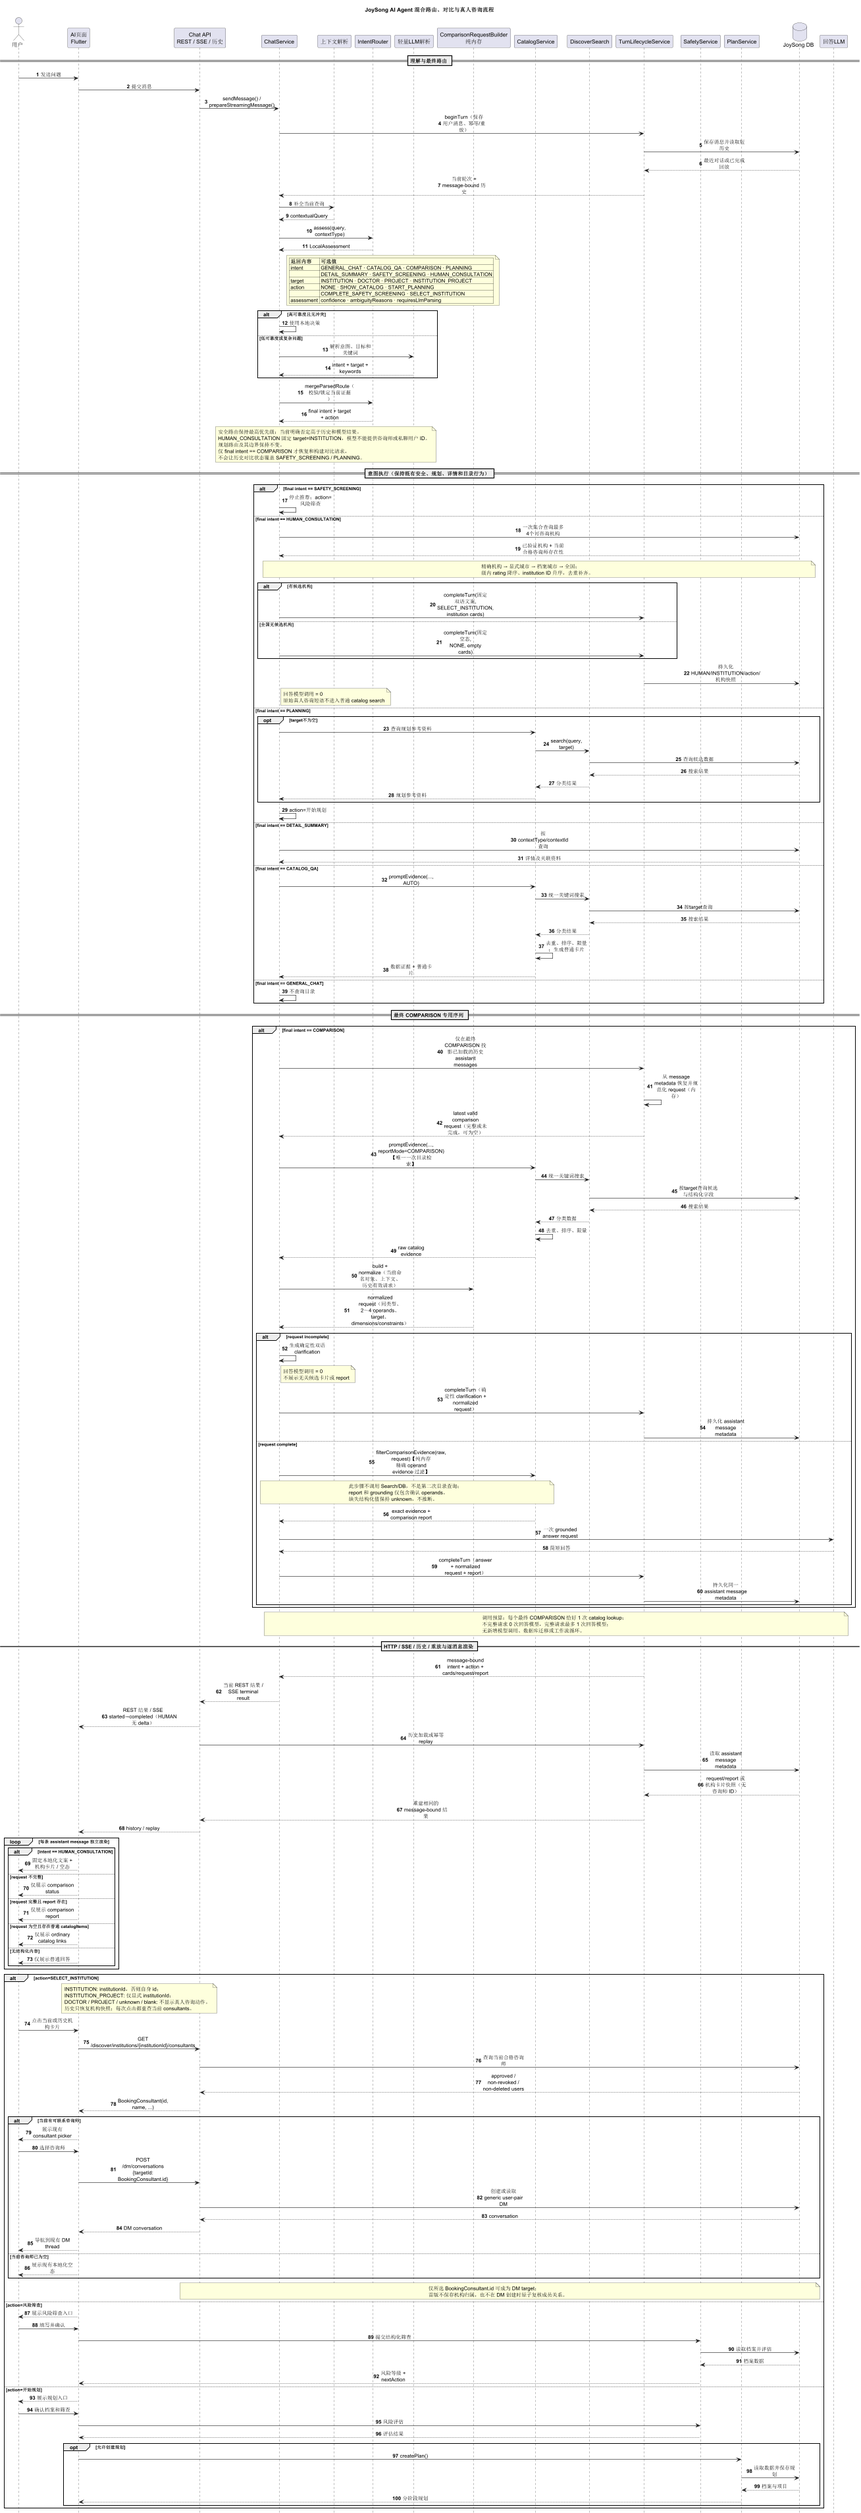
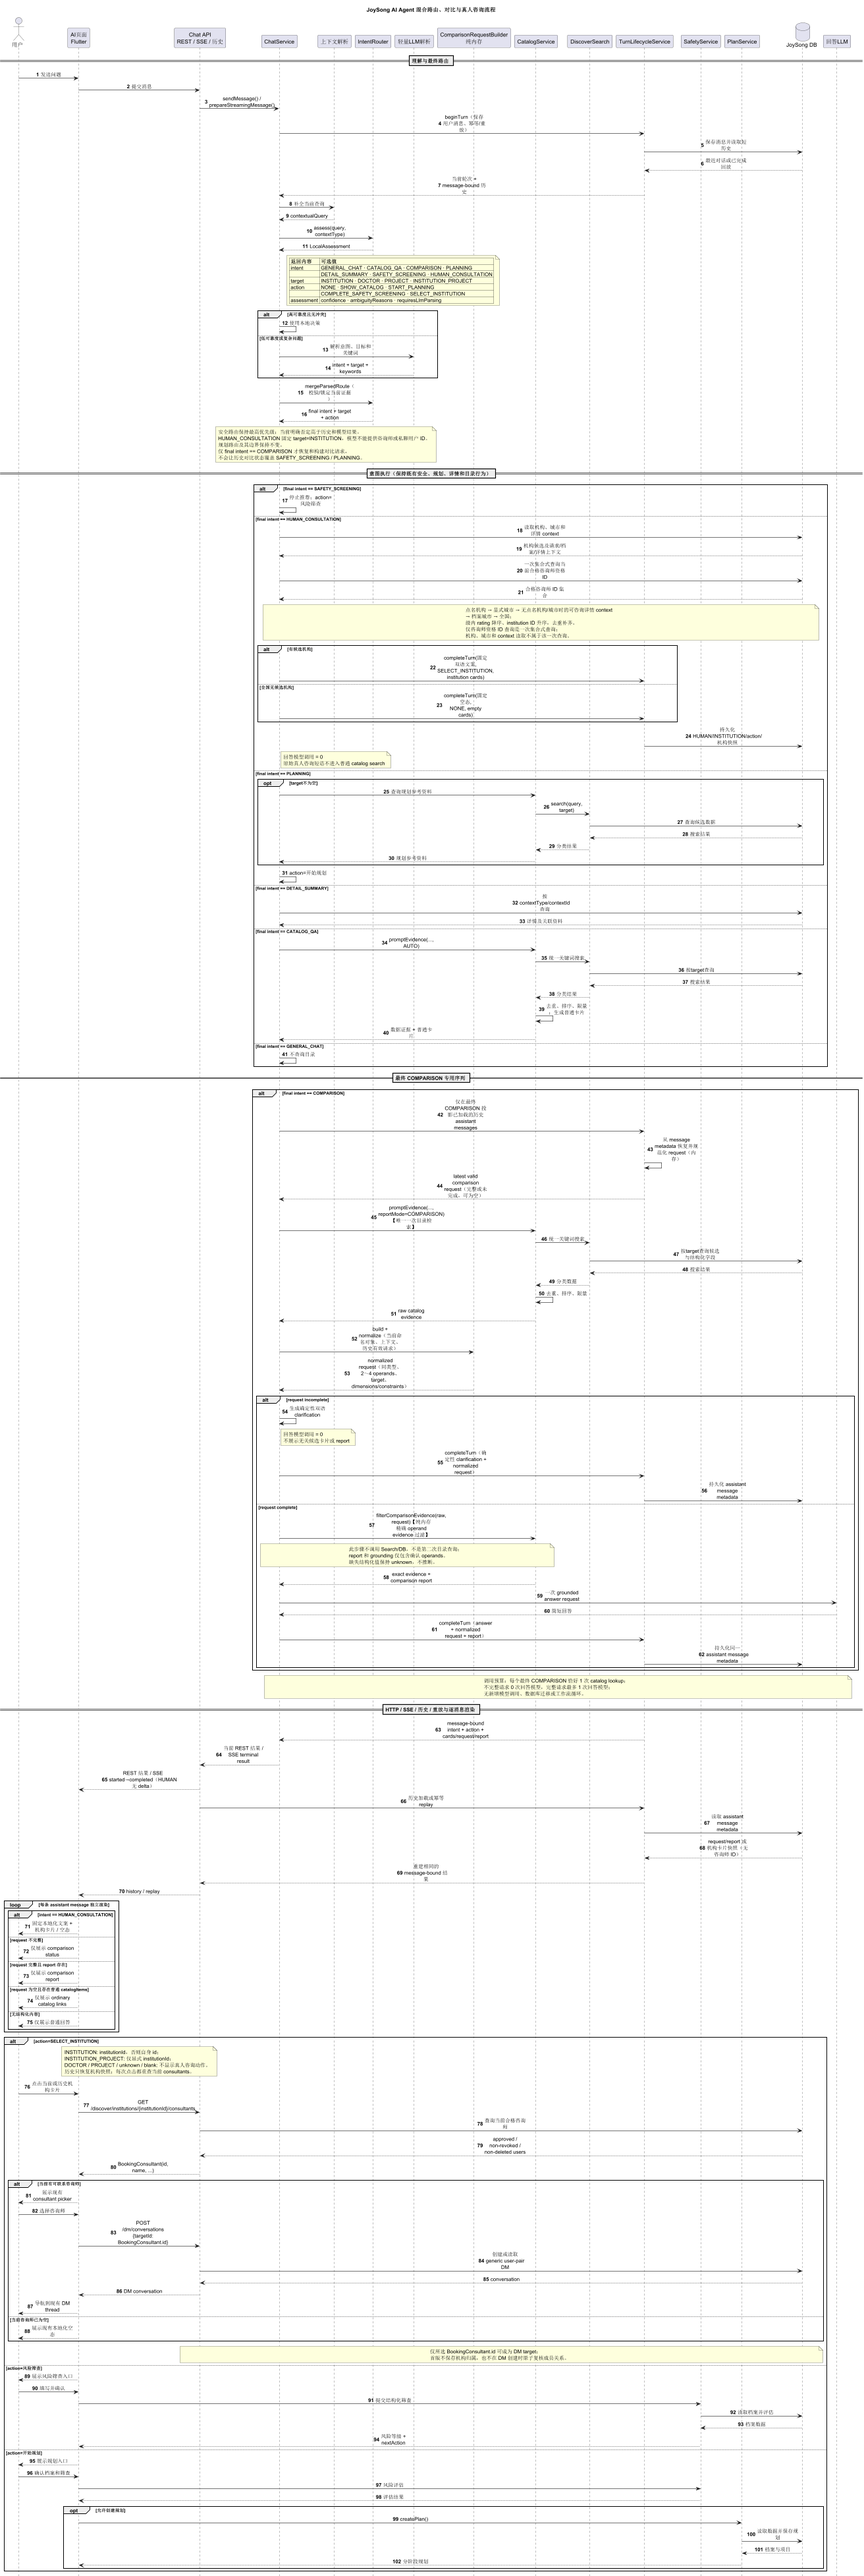
docs: clarify handoff candidate tiers

diff --git a/docs/AI_AGENT_DEVELOPMENT.md b/docs/AI_AGENT_DEVELOPMENT.md
@@ -40,7 +40,7 @@ data: {"code":"AI_PROVIDER_TIMEOUT","traceId":"trace-1","retryable":true}
 
 明确的中英文真人咨询表达由本地高精度规则直接识别为 `HUMAN_CONSULTATION`；只有语义仍然歧义时才允许意图模型分类。该意图固定 `queryTarget=INSTITUTION`，模型不能提供咨询师或私聊用户 ID，也不能绕过安全、否定和目标校验。
 
-候选机构通过一次集合查询取得：机构必须已验证、未删除，并且当前至少存在一名符合咨询师接口资格规则的咨询师。结果依次按“当前请求精确机构、当前请求显式城市、无显式城市时的用户档案城市、全国”四级去重补齐，级内按评分降序、机构 ID 升序稳定排序，最多返回 4 家。
+候选机构须已验证、未删除，并且当前至少存在一名符合咨询师接口资格规则的咨询师。咨询师资格 ID 仅通过一次集合式查询取得；机构、城市和详情上下文的解析仍会使用各自所需的读取，不能将此表述为整体候选只进行一次仓储查询。结果依次按“当前请求点名机构、当前请求显式城市、当前请求未点名机构且未显式城市时可咨询的详情 context 机构、用户档案城市、全国”五级去重补齐，级内按评分降序、机构 ID 升序稳定排序，最多返回 4 家。
 
 有候选时，服务端返回固定本地化文案，中文为“我可以为你转接真人咨询。请选择希望咨询的机构，随后可查看该机构当前可联系的咨询师。”，英文为“I can help connect you with a real consultant. Choose an institution to see its currently available consultants.”，并设置 `nextAction=SELECT_INSTITUTION`。全国无候选时返回固定空态、空卡片列表和 `nextAction=NONE`。这两种结果都不调用回答模型。
 
